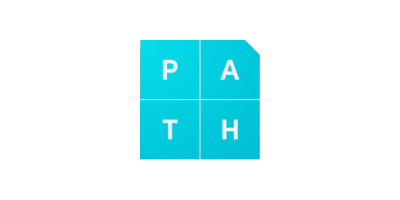
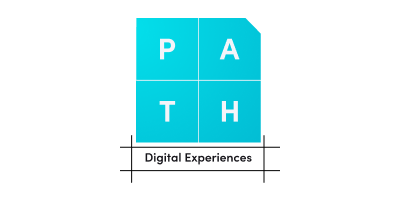
updated sponsor - path

Changed region(s): [[0.3, 0.09, 0.72, 0.87]]

diff --git a/index.html b/index.html
@@ -417,7 +417,7 @@
                 </div>
                 <div class="col-md-4" style="padding-top: 44px">
                     <a target="_blank" href="https://path.com.tr/">
-                        <img width="100" src="assets/images/sponsors/path.png" alt="Path">
+                        <img width="100" src="assets/images/sponsors/path.svg" alt="Path">
                     </a>
                 </div>
             </div>
